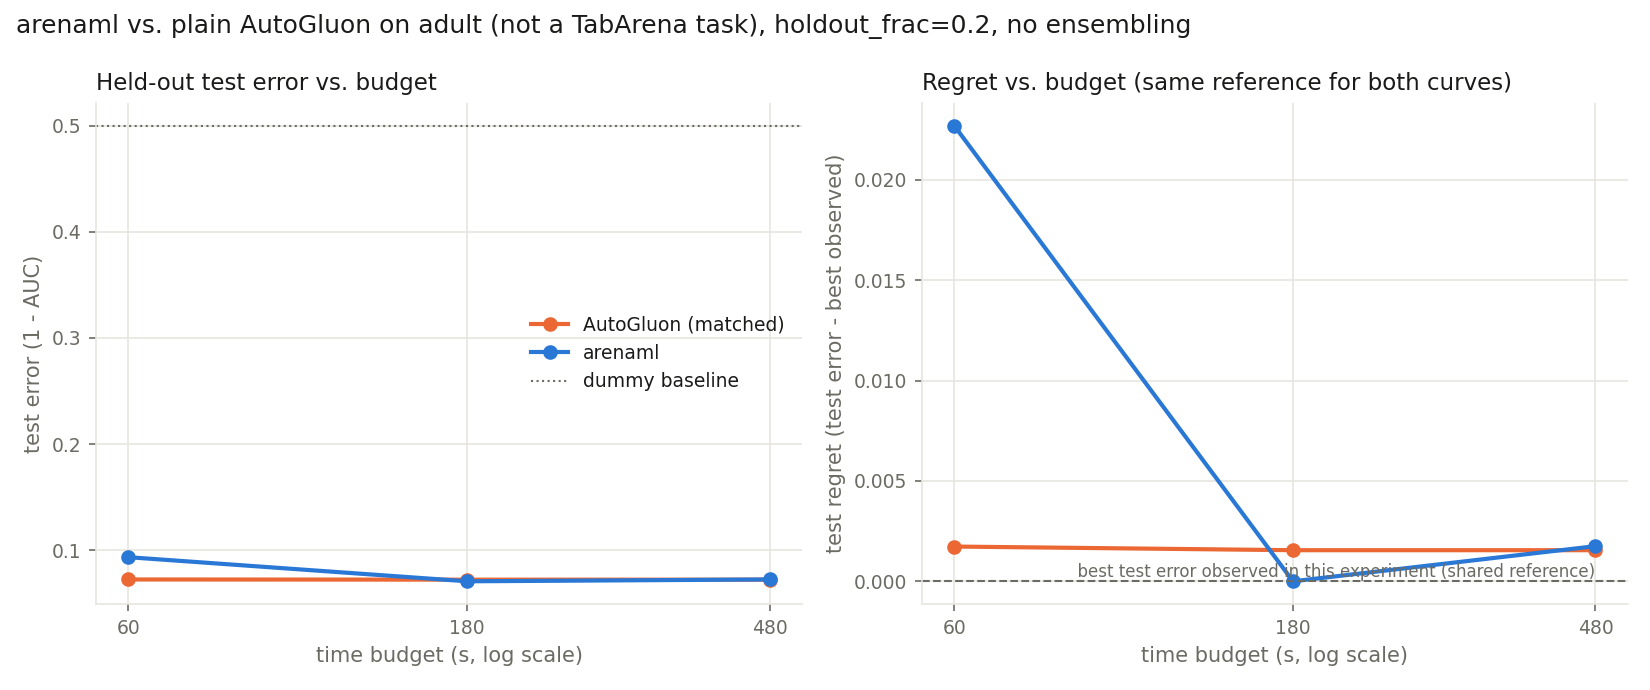
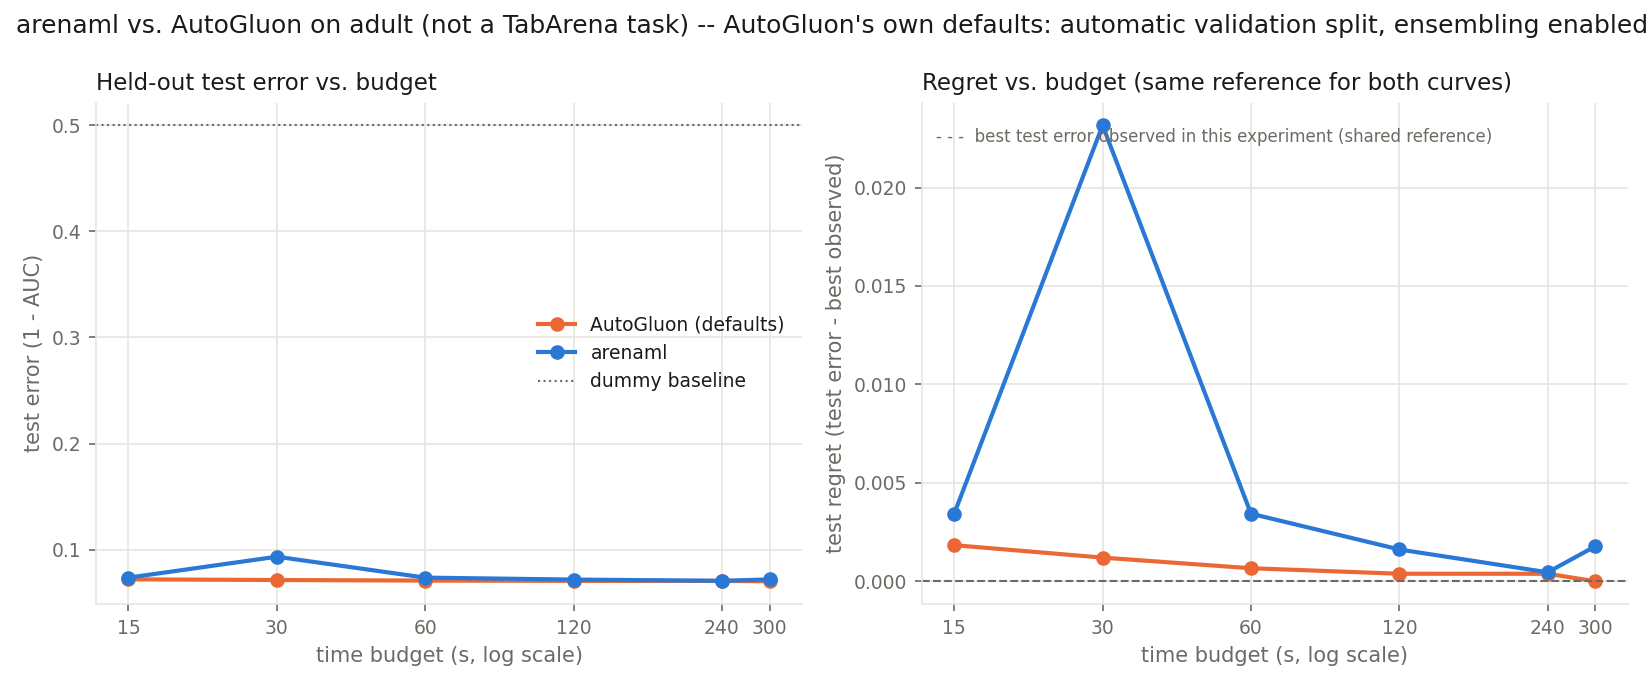
Fix stale plot title and regret-label collision; results for defaults mode
The figure title hardcoded "holdout_frac=X, no ensembling" regardless of
AUTOGLUON_MODE -- factually wrong for "defaults"/"extreme" runs (defaults
genuinely ensembles, as this run's WeightedEnsemble_L2 results show). Now
built per-mode. The "best test error observed" regret-plot annotation was
anchored on the y=0 line itself and collided with whichever method's
regret happened to sit near zero there; moved to fixed axes-relative
whitespace (top-left) instead.

Results for this run (AUTOGLUON_MODE="defaults", ARENAML_MODELS="cpu",
budgets 15-300s): AutoGluon's defaults (ensembling on, automatic
validation split) beat arenaml's single best CPU-tagged leaderboard
config at every budget, expected since this comparison intentionally
does not isolate search strategy (see AUTOGLUON_MODE="matched" for that).
AutoGluon plateaus by ~60-120s (test error 0.0708 -> 0.0705); arenaml's
30s point is a visible outlier (0.093 vs. 0.074 at 15s) from an unlucky
single RandomForest pick eating most of a small budget, consistent with
each budget being an independent run with no incumbent carried over.

Claude-Session: https://claude.ai/code/session_01GuvLsHkHSaYx6SznYzdW9C

diff --git a/examples/adult_vs_autogluon.py b/examples/adult_vs_autogluon.py
@@ -272,21 +272,29 @@ def plot(results: pd.DataFrame, dummy_err: float) -> None:
             sub["budget_s"], sub["test_regret"], "o-", color=colors[method], label=method, linewidth=2, ms=6
         )
     ax.axhline(0.0, color=MUTED, linewidth=1, linestyle="--")
+    # Anchored top-left (empty whitespace above the leftmost points), not on the axhline
+    # itself, since a method's regret can sit right at/near 0 for most of the budget range
+    # and would otherwise collide with this label.
     ax.text(
-        df["budget_s"].max(),
-        0.0,
-        "  best test error observed in this experiment (shared reference)",
+        0.02,
+        0.95,
+        "- - -  best test error observed in this experiment (shared reference)",
         color=MUTED,
         fontsize=8,
-        va="bottom",
-        ha="right",
+        va="top",
+        ha="left",
+        transform=ax.transAxes,
     )
     ax.set_ylabel("test regret (test error - best observed)", color=MUTED)
     ax.set_title("Regret vs. budget (same reference for both curves)", color=INK, fontsize=11, loc="left")
 
+    protocol = {
+        "matched": f"AutoGluon matched to arenaml's protocol: holdout_frac={HOLDOUT_FRAC}, no ensembling",
+        "defaults": "AutoGluon's own defaults: automatic validation split, ensembling enabled",
+        "extreme": "AutoGluon extreme_quality preset: multi-layer stacking + zeroshot portfolio",
+    }[AUTOGLUON_MODE]
     fig.suptitle(
-        f"arenaml vs. plain AutoGluon on {DATASET} (not a TabArena task), "
-        f"holdout_frac={HOLDOUT_FRAC}, no ensembling",
+        f"arenaml vs. AutoGluon on {DATASET} (not a TabArena task) -- {protocol}",
         color=INK,
         fontsize=12,
         x=0.01,
